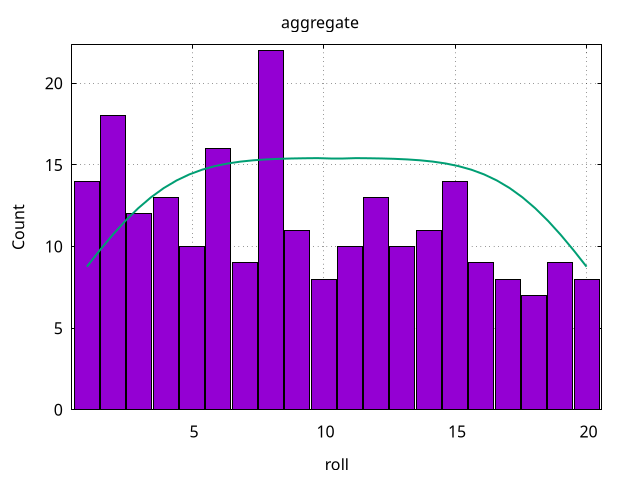
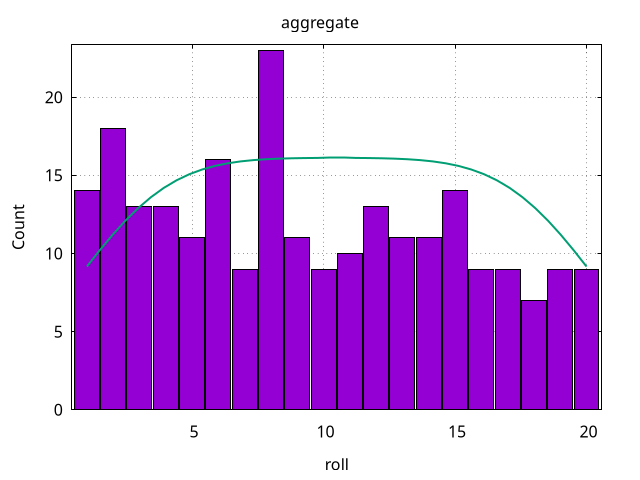
Add new dragons session

diff --git a/README.md b/README.md
@@ -23,7 +23,7 @@ and the overall statistics:
 
 | count | mean | stddev | Q1 | median | Q3 |
 | ----- | ---- | ------ | -- | ------ | -- |
-| 271   | 9.53 | 5.85   | 4  | 9      | 15 |
+| 278   | 9.56 | 5.85   | 4  | 9      | 15 |
 
 # Campaign Statistics
 
@@ -64,7 +64,7 @@ and the per-session statistics:
 
 | session                                                                      | count | mean  | stddev | Q1   | median | Q3 |
 | ---------------------------------------------------------------------------- | ----- | ----- | ------ | ---- | ------ | -- |
-| aggregate                                                                    | 232   | 9.48  | 5.74   | 5    | 9      | 14 |
+| aggregate                                                                    | 239   | 9.52  | 5.74   | 5    | 9      | 14 |
 | [session-01](figures/tyranny-of-dragons-1/sessions/session-01-histogram.png) | 24    | 9.79  | 6.93   | 3.50 | 10     | 13 |
 | [session-02](figures/tyranny-of-dragons-1/sessions/session-02-histogram.png) | 21    | 9.57  | 5.80   | 5    | 8      | 14 |
 | [session-03](figures/tyranny-of-dragons-1/sessions/session-03-histogram.png) | 14    | 11.07 | 7.21   | 8    | 11     | 15 |
@@ -79,6 +79,7 @@ and the per-session statistics:
 | [session-12](figures/tyranny-of-dragons-1/sessions/session-12-histogram.png) | 2     | 7     | 6.32   |      |        |    |
 | [session-13](figures/tyranny-of-dragons-1/sessions/session-13-histogram.png) | 11    | 8.64  | 5.16   | 6    | 10     | 12 |
 | [session-14](figures/tyranny-of-dragons-1/sessions/session-14-histogram.png) | 15    | 7.07  | 5.62   | 3    | 6      | 10 |
+| [session-15](figures/tyranny-of-dragons-1/sessions/session-15-histogram.png) | 7     | 10.86 | 9.04   | 5    | 10     | 17 |
 
 # FAQ
 
